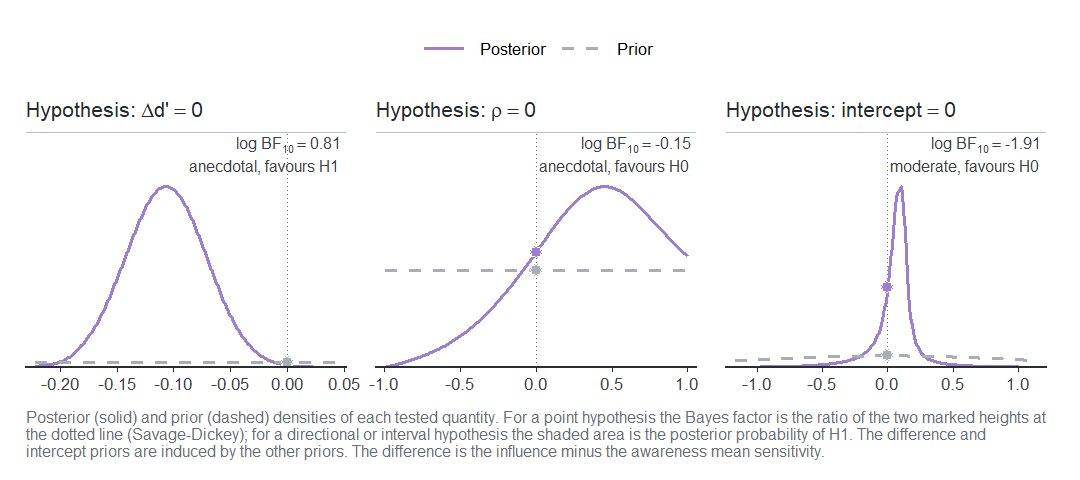
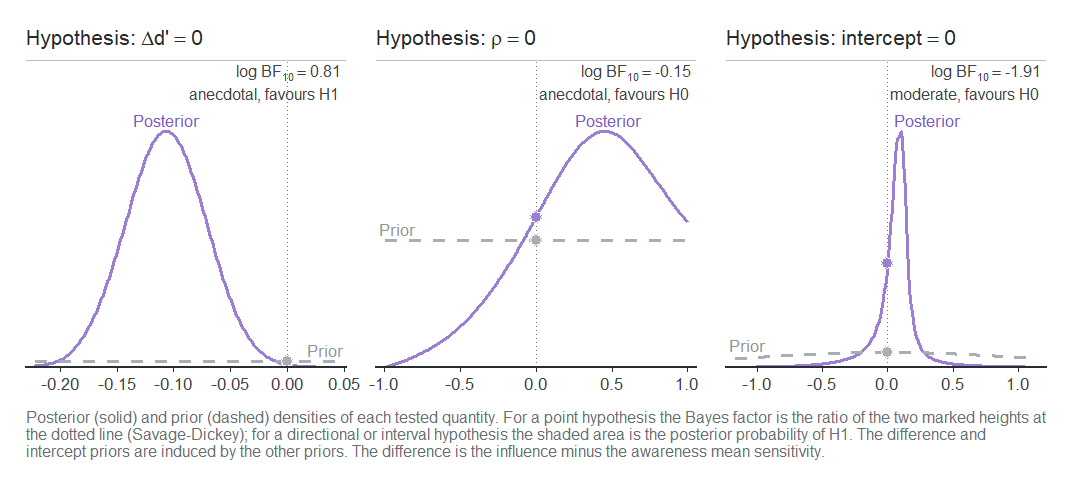
Name the prior and the posterior on their curves in the Bayes factor plot
The legend of the two curves took a row over the panels. The plot now names
them on the curves of every panel, in their colours: the posterior over its
line as near its peak as it fits, or beside the peak, and the prior over or
under its line as far from that peak as it fits. Whether a name fits depends
on the size of the panel, so a geom hands every panel the curves and
obstacles of all panels, and its grob places the names when it is drawn:
clear of both curves, the dotted lines, the marked heights, the Bayes factor
label, the other name and the edge of the panel. When a name finds no place
in some panel, every panel stacks both names in its first free place down
the left side, then the right and the middle, so the panels agree; a panel
with no free place leaves them to the others and to the caption.

The precomputed Bayesian article is re-knitted for its Bayes factor figure.

diff --git a/NEWS.md b/NEWS.md
@@ -152,12 +152,16 @@
 
 * Every plot shares one style: panel titles are plain text on the left over a
   thin grey line instead of the grey box, in the caterpillar, Bayes factor,
-  prior and power plots too. The Bayes
-  factor plot titles each panel "Hypothesis:" and its hypothesis, and writes
-  log BF with a subscript 10. The observed subjects of the regression and
+  prior and power plots too. The observed subjects of the regression and
   shrinkage plots are grey circles with a light, translucent fill, so the
   overlaps show where they gather, and the shrinkage segments pass under the
   points.
+* The Bayes factor plot titles each panel "Hypothesis:" and its hypothesis,
+  and writes log BF with a subscript 10. Instead of a legend on top, it names
+  the posterior and the prior on their curves in every panel, placed when the
+  plot is drawn so that they touch no line, point or label at that size;
+  where that fails in any panel, every panel stacks both names in a free
+  corner.
 * Every plot method takes `caption = FALSE` to leave out the caption, which
   is now a single paragraph.
 * `plot(type = "regression")` takes `nrow = 2` to stack the observed panel
